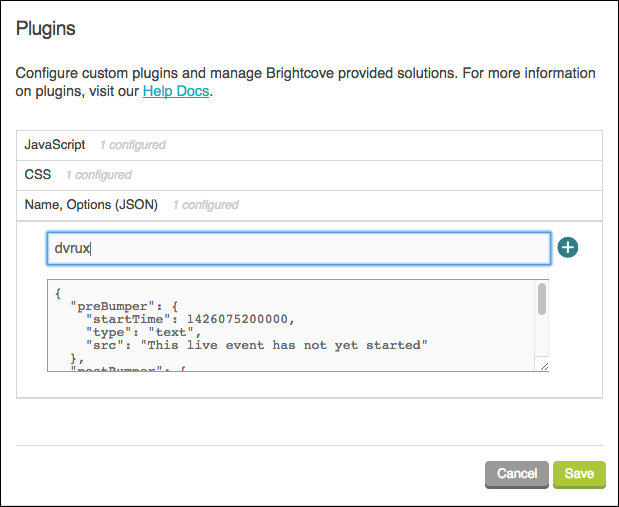
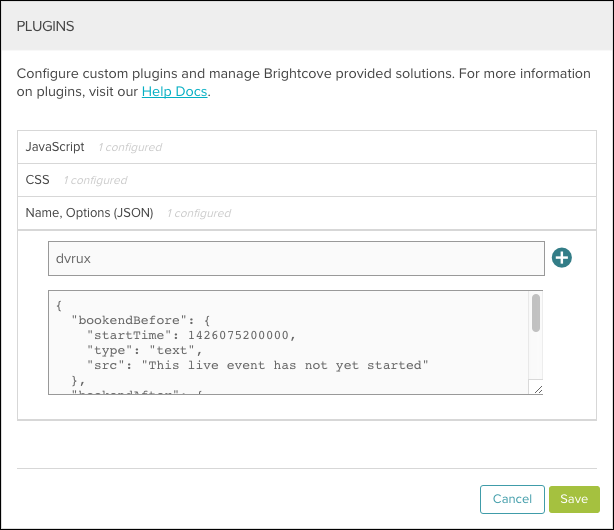
Update to DVRUX doc

diff --git a/en/perform/brightcove-player/guides/dvrux-plugin.html b/en/perform/brightcove-player/guides/dvrux-plugin.html
@@ -24,7 +24,7 @@
 
 </script>
   <script src="https://cdnjs.cloudflare.com/ajax/libs/foundation/5.5.2/js/vendor/modernizr.js"></script>
-    
+
 <!-- Page styles -->
 <style>
     .table-border {
@@ -34,7 +34,7 @@
         border:solid 1px #D3D3D3;
     }
 </style>
-    
+
 </head>
 
 <body>
@@ -99,26 +99,41 @@
       </ul>
         <p>The name of the plugin is <code>dvrux</code>, and an example set of options is:</p>
         <p><code data-gist-id="009be88eae8ea8ebb329" data-gist-hide-footer="true" data-gist-line="50-61"></code></p>
-        <p>The following shows using the In-Page Embed implementation of the player to associate the Live DVRUX Plugin with a single instance of a player.</p>
-          <ul>
-              <li>Line 13: Uses a <code>link</code> tag to include the plugin's CSS in the <code>head</code> of the HTML page.</li>
-              <li>Line 17: Gives the <code>video</code> tag an <code>id</code> attribute, with some value, in this case <strong>myPlayerID</strong>.</li>
-              <li>Line 26: Uses a <code>script</code> tag to include the plugin's JavaScript in the <code>body</code> of the HTML page.</li>
-              <li>Line 30: Creates a reference to the player.</li>
-              <li>Lines 31-42: Calls the plugin, passing the JSON object as options. If you are not passing any options the function call is simply <code>myPlayer.dvrux()</code>.</li>
-          </ul>
-          <p><code data-gist-id="009be88eae8ea8ebb329" data-gist-hide-footer="true" data-gist-line="13,15, 17-47"></code></p>
+
+        <div class="video-cloud-only">
+          <p>The following shows using the In-Page Embed implementation of the player to associate the Live DVRUX Plugin with a single instance of a player.</p>
+            <ul>
+                <li>Line 13: Uses a <code>link</code> tag to include the plugin's CSS in the <code>head</code> of the HTML page.</li>
+                <li>Line 17: Gives the <code>video</code> tag an <code>id</code> attribute, with some value, in this case <strong>myPlayerID</strong>.</li>
+                <li>Line 26: Uses a <code>script</code> tag to include the plugin's JavaScript in the <code>body</code> of the HTML page.</li>
+                <li>Line 30: Creates a reference to the player.</li>
+                <li>Lines 31-42: Calls the plugin, passing the JSON object as options. If you are not passing any options the function call is simply <code>myPlayer.dvrux()</code>.</li>
+            </ul>
+            <p><code data-gist-id="009be88eae8ea8ebb329" data-gist-hide-footer="true" data-gist-line="13,15, 17-47"></code></p>
+        </div>
+
+        <div class="perform-only">
+          <p>The following shows using the In-Page Embed implementation of the player to associate the Live DVRUX Plugin with a single instance of a player.</p>
+            <ul>
+                <li>Line 79: Uses a <code>link</code> tag to include the plugin's CSS in the <code>head</code> of the HTML page.</li>
+                <li>Line 83: Gives the <code>video</code> tag an <code>id</code> attribute, with some value, in this case <strong>myPlayerID</strong>.</li>
+                <li>Line 91: Uses a <code>script</code> tag to include the plugin's JavaScript in the <code>body</code> of the HTML page.</li>
+                <li>Line 95: Creates a reference to the player.</li>
+                <li>Lines 96-107: Calls the plugin, passing the JSON object as options. If you are not passing any options the function call is simply <code>myPlayer.dvrux()</code>.</li>
+            </ul>
+            <p><code data-gist-id="009be88eae8ea8ebb329" data-gist-hide-footer="true" data-gist-line="79,83-112"></code></p>
+        </div>
 
       </div>
       <div id="properties" class="section">
         <h2>Properties</h2>
         <p>The following plugin properties are used to control the Live DVRUX plugin:</p>
     <ul>
-      <li><strong>bookendBefore</strong>: 
+      <li><strong>bookendBefore</strong>:
         <ul>
           <li>Type: <code>object</code></li>
           <li>Creates an overlay to be shown after Brightcove Player has been loaded but before the live event has started.<br/><br/>Contains the following three child properties:
-          <table class="table-border"> 
+          <table class="table-border">
             <tr>
               <th>Name</th>
               <th>Type</th>
@@ -127,7 +142,7 @@
             <tr>
               <td>startTime</td>
               <td>number</td>
-              <td>The time the live event is scheduled to start, using epoch time in milliseconds</td>
+              <td>The time the live event is scheduled to start, using epoch time in milliseconds; when this time is crossed for a bookendBefore, the bookend will clear and start playback as soon as the playlist is updated with a new segment</td>
             </tr>
             <tr>
               <td>type</td>
@@ -147,7 +162,7 @@
           </table></li>
         </ul>
       </li>
-      <li><strong>bookendAfterr</strong>: 
+      <li><strong>bookendAfterr</strong>:
         <ul>
           <li>Type: <code>object</code></li>
           <li>Creates an overlay to be shown after the live event has completed and Brightcove Player is still open<br/><br/>
@@ -161,7 +176,7 @@
             <tr>
               <td>startTime</td>
               <td>number</td>
-              <td>The time the live event is scheduled to complete, using epoch time in milliseconds</td>
+              <td>The time the live event is scheduled to complete, using epoch time in milliseconds; when the time is crossed for a bookendAfter, playback will immediately end and the bookend will be shown.</td>
             </tr>
             <tr>
               <td>type</td>
@@ -190,14 +205,8 @@
           <li>This plugin will not work on Windows Phone 8 or earlier, which does not support HLS or Flash.</li>
           <li>The native player takes over in iOS for iPhone, so this stylistic plugin has no effect on iPhone playback.</li>
           <li>iPads are supported in full screen mode using the native controls.</li>
-          <li>Devices which have a native implementation of HLS (mobile, Safari on desktop) do not provide enough information about the media playlist to be supported.</li>          
+          <li>Devices which have a native implementation of HLS (mobile, Safari on desktop) do not provide enough information about the media playlist to be supported.</li>
         </ul>
-      </div>
-      <div id="knownissues" class="section">
-        <h2>Known issues</h2>
-          <ul>
-            <li>Very short sliding window playlists look particularly "jumpy" on the progress bar.</li>
-          </ul>
       </div>
       <div class="section" id="BCLreferences">
         <h2>Related Topics</h2>

diff --git a/en/video-cloud/brightcove-player/guides/dvrux-plugin.html b/en/video-cloud/brightcove-player/guides/dvrux-plugin.html
@@ -24,7 +24,7 @@
 
 </script>
   <script src="https://cdnjs.cloudflare.com/ajax/libs/foundation/5.5.2/js/vendor/modernizr.js"></script>
-    
+
 <!-- Page styles -->
 <style>
     .table-border {
@@ -34,7 +34,7 @@
         border:solid 1px #D3D3D3;
     }
 </style>
-    
+
 </head>
 
 <body>
@@ -99,26 +99,41 @@
       </ul>
         <p>The name of the plugin is <code>dvrux</code>, and an example set of options is:</p>
         <p><code data-gist-id="009be88eae8ea8ebb329" data-gist-hide-footer="true" data-gist-line="50-61"></code></p>
-        <p>The following shows using the In-Page Embed implementation of the player to associate the Live DVRUX Plugin with a single instance of a player.</p>
-          <ul>
-              <li>Line 13: Uses a <code>link</code> tag to include the plugin's CSS in the <code>head</code> of the HTML page.</li>
-              <li>Line 17: Gives the <code>video</code> tag an <code>id</code> attribute, with some value, in this case <strong>myPlayerID</strong>.</li>
-              <li>Line 26: Uses a <code>script</code> tag to include the plugin's JavaScript in the <code>body</code> of the HTML page.</li>
-              <li>Line 30: Creates a reference to the player.</li>
-              <li>Lines 31-42: Calls the plugin, passing the JSON object as options. If you are not passing any options the function call is simply <code>myPlayer.dvrux()</code>.</li>
-          </ul>
-          <p><code data-gist-id="009be88eae8ea8ebb329" data-gist-hide-footer="true" data-gist-line="13,15, 17-47"></code></p>
+
+        <div class="video-cloud-only">
+          <p>The following shows using the In-Page Embed implementation of the player to associate the Live DVRUX Plugin with a single instance of a player.</p>
+            <ul>
+                <li>Line 13: Uses a <code>link</code> tag to include the plugin's CSS in the <code>head</code> of the HTML page.</li>
+                <li>Line 17: Gives the <code>video</code> tag an <code>id</code> attribute, with some value, in this case <strong>myPlayerID</strong>.</li>
+                <li>Line 26: Uses a <code>script</code> tag to include the plugin's JavaScript in the <code>body</code> of the HTML page.</li>
+                <li>Line 30: Creates a reference to the player.</li>
+                <li>Lines 31-42: Calls the plugin, passing the JSON object as options. If you are not passing any options the function call is simply <code>myPlayer.dvrux()</code>.</li>
+            </ul>
+            <p><code data-gist-id="009be88eae8ea8ebb329" data-gist-hide-footer="true" data-gist-line="13,15, 17-47"></code></p>
+        </div>
+
+        <div class="perform-only">
+          <p>The following shows using the In-Page Embed implementation of the player to associate the Live DVRUX Plugin with a single instance of a player.</p>
+            <ul>
+                <li>Line 79: Uses a <code>link</code> tag to include the plugin's CSS in the <code>head</code> of the HTML page.</li>
+                <li>Line 83: Gives the <code>video</code> tag an <code>id</code> attribute, with some value, in this case <strong>myPlayerID</strong>.</li>
+                <li>Line 91: Uses a <code>script</code> tag to include the plugin's JavaScript in the <code>body</code> of the HTML page.</li>
+                <li>Line 95: Creates a reference to the player.</li>
+                <li>Lines 96-107: Calls the plugin, passing the JSON object as options. If you are not passing any options the function call is simply <code>myPlayer.dvrux()</code>.</li>
+            </ul>
+            <p><code data-gist-id="009be88eae8ea8ebb329" data-gist-hide-footer="true" data-gist-line="79,83-112"></code></p>
+        </div>
 
       </div>
       <div id="properties" class="section">
         <h2>Properties</h2>
         <p>The following plugin properties are used to control the Live DVRUX plugin:</p>
     <ul>
-      <li><strong>bookendBefore</strong>: 
+      <li><strong>bookendBefore</strong>:
         <ul>
           <li>Type: <code>object</code></li>
           <li>Creates an overlay to be shown after Brightcove Player has been loaded but before the live event has started.<br/><br/>Contains the following three child properties:
-          <table class="table-border"> 
+          <table class="table-border">
             <tr>
               <th>Name</th>
               <th>Type</th>
@@ -127,7 +142,7 @@
             <tr>
               <td>startTime</td>
               <td>number</td>
-              <td>The time the live event is scheduled to start, using epoch time in milliseconds</td>
+              <td>The time the live event is scheduled to start, using epoch time in milliseconds; when this time is crossed for a bookendBefore, the bookend will clear and start playback as soon as the playlist is updated with a new segment</td>
             </tr>
             <tr>
               <td>type</td>
@@ -147,7 +162,7 @@
           </table></li>
         </ul>
       </li>
-      <li><strong>bookendAfterr</strong>: 
+      <li><strong>bookendAfterr</strong>:
         <ul>
           <li>Type: <code>object</code></li>
           <li>Creates an overlay to be shown after the live event has completed and Brightcove Player is still open<br/><br/>
@@ -161,7 +176,7 @@
             <tr>
               <td>startTime</td>
               <td>number</td>
-              <td>The time the live event is scheduled to complete, using epoch time in milliseconds</td>
+              <td>The time the live event is scheduled to complete, using epoch time in milliseconds; when the time is crossed for a bookendAfter, playback will immediately end and the bookend will be shown.</td>
             </tr>
             <tr>
               <td>type</td>
@@ -190,14 +205,8 @@
           <li>This plugin will not work on Windows Phone 8 or earlier, which does not support HLS or Flash.</li>
           <li>The native player takes over in iOS for iPhone, so this stylistic plugin has no effect on iPhone playback.</li>
           <li>iPads are supported in full screen mode using the native controls.</li>
-          <li>Devices which have a native implementation of HLS (mobile, Safari on desktop) do not provide enough information about the media playlist to be supported.</li>          
+          <li>Devices which have a native implementation of HLS (mobile, Safari on desktop) do not provide enough information about the media playlist to be supported.</li>
         </ul>
-      </div>
-      <div id="knownissues" class="section">
-        <h2>Known issues</h2>
-          <ul>
-            <li>Very short sliding window playlists look particularly "jumpy" on the progress bar.</li>
-          </ul>
       </div>
       <div class="section" id="BCLreferences">
         <h2>Related Topics</h2>

diff --git a/en/perform/brightcove-player/guides/adding-captions-to-videos.html b/en/perform/brightcove-player/guides/adding-captions-to-videos.html
@@ -109,9 +109,9 @@ a web-based application
     data-embed="default"
     class="video-js" controls&gt;
   &lt;/video&gt;
-  &lt;script src="//players.brightcove.net/20318290001/d508c6e1-efa7-4aad-ba91-1a8db9761b8c_default/index.min.js"&gt;&lt;/script&gt;           
+  &lt;script src="//players.brightcove.net/20318290001/d508c6e1-efa7-4aad-ba91-1a8db9761b8c_default/index.min.js"&gt;&lt;/script&gt;
 </pre></li>
-        
+
         <li>Add <code>&lt;track&gt;</code> tag(s) inside of the <code>&lt;video&gt;</code> tag that point to location of all caption files.  Note that publishers are responsible for hosting caption files. <span class="video-cloud-only">Video Cloud</span><span class="perform-only">Perform</span> Studio does not currently provide a way for publishers to upload WebVTT caption files. This is planned for a future release. In the example below, English, Japanese and French caption files have been specified. For a complete list of language codes, see the <a href="http://www.w3schools.com/tags/ref_language_codes.asp">HTML Language Code Reference</a>.<br/>
         <pre class="video-cloud-only">
   &lt;video
@@ -140,10 +140,12 @@ a web-based application
         </pre>
         <p class="BCL-aside">Note: You may need to add the <code>&lt;crossorigin&gt;</code> attribute and set it to <code>anonymous</code> for captions to appear on iOS devices.</p>
         </li>
-        <li><strong>(Optional)</strong> To have captions automatically display when the video starts playing, add the <code>default</code> attribute to the <code>&lt;track&gt;</code> tag for the language to display.  Note that the <code>default</code> attribute should only appear on one <code>&lt;track&gt;</code> tag. For example, to have the English captions display when the video starts playing, the <code>&lt;track&gt;</code> tag would be modified as follows:<br/>
+        <li><strong>(Optional)</strong> To have captions automatically display when the video starts playing, add the <code>default</code> attribute to the <code>&lt;track&gt;</code> tag for the language to display and set .  Note that the <code>default</code> attribute should only appear on one <code>&lt;track&gt;</code> tag. For example, to have the English captions display when the video starts playing, the <code>&lt;track&gt;</code> tag would be modified as follows:<br/>
         <pre>  &lt;track kind="captions" src="http://solutions.brightcove.com/intro.vtt" srclang="en" label="English" <strong>default</strong>&gt;
   &lt;track kind="captions" src="http://solutions.brightcove.com/intro-jp.vtt" srclang="ja" label="Japanese"&gt;
   &lt;track kind="captions" src="http://solutions.brightcove.com/intro-fr.vtt" srclang="fr" label="French"&gt;</pre>
+        <p>The code needed to start the designated captions automatically is:</p>
+        <pre>myPlayer.textTracks().tracks_[1].mode = "showing";</pre>
         </li>
         <li>Publish the page with the player. When a player with associated captions is published, a <strong>CC</strong> button will appear on the player chrome.<br/>
        	  <img alt="" src="//img.brightcove.com/cc-button.png" /></li>
@@ -179,7 +181,7 @@ to login to and navigate around<strong>&lt;/c&gt;</strong>
 
 3
 00:00:06.510 --> 00:00:09.550 align:middle line:84%
-<strong>&lt;c.captionstyle&gt;</strong>inside of <span class="video-cloud-only">Video Cloud</span> Studio.<strong>&lt;/c&gt;</strong> 
+<strong>&lt;c.captionstyle&gt;</strong>inside of <span class="video-cloud-only">Video Cloud</span> Studio.<strong>&lt;/c&gt;</strong>
       </pre>
       <p>For more information on styling options for caption files, see the <a href="http://dev.w3.org/html5/webvtt/#css-extensions">W3C WebVTT specification document</a> or see <a href="http://html5doctor.com/video-subtitling-and-webvtt/#styling">Video Subtitling and WebVTT</a>.</p>
       <h3 id="user">User styling of captions</h3>
@@ -218,8 +220,8 @@ to login to and navigate around<strong>&lt;/c&gt;</strong>
         </ul>
         <p>The function call returns an object of type <code>vjs.TextTrack</code>.</p>
         <p>Example usage:</p>
-        <p><code data-gist-id="93425dc1cd542909531c" data-gist-hide-footer="true" data-gist-line="38-43"></code></p>  
-        <p>You must wait for the <code>loadstart</code> event to be dispatched before you use the <code>addRemoteTextTrack()</code> method. The following example shows the script block for adding English and French captions to a video.</p>      
+        <p><code data-gist-id="93425dc1cd542909531c" data-gist-hide-footer="true" data-gist-line="38-43"></code></p>
+        <p>You must wait for the <code>loadstart</code> event to be dispatched before you use the <code>addRemoteTextTrack()</code> method. The following example shows the script block for adding English and French captions to a video.</p>
         <p><code data-gist-id="93425dc1cd542909531c" data-gist-hide-footer="true" data-gist-line="25-47" data-gist-highlight-line="29,45"></code></p>
         <p>The complementary method <code>textTracks()</code> enables you to retrieve all text tracks assigned to a player. The method returns a object of type <code>vjs.TextTrackList</code>.</p>
       </div>

diff --git a/en/video-cloud/brightcove-player/guides/adding-captions-to-videos.html b/en/video-cloud/brightcove-player/guides/adding-captions-to-videos.html
@@ -109,9 +109,9 @@ a web-based application
     data-embed="default"
     class="video-js" controls&gt;
   &lt;/video&gt;
-  &lt;script src="//players.brightcove.net/20318290001/d508c6e1-efa7-4aad-ba91-1a8db9761b8c_default/index.min.js"&gt;&lt;/script&gt;           
+  &lt;script src="//players.brightcove.net/20318290001/d508c6e1-efa7-4aad-ba91-1a8db9761b8c_default/index.min.js"&gt;&lt;/script&gt;
 </pre></li>
-        
+
         <li>Add <code>&lt;track&gt;</code> tag(s) inside of the <code>&lt;video&gt;</code> tag that point to location of all caption files.  Note that publishers are responsible for hosting caption files. <span class="video-cloud-only">Video Cloud</span><span class="perform-only">Perform</span> Studio does not currently provide a way for publishers to upload WebVTT caption files. This is planned for a future release. In the example below, English, Japanese and French caption files have been specified. For a complete list of language codes, see the <a href="http://www.w3schools.com/tags/ref_language_codes.asp">HTML Language Code Reference</a>.<br/>
         <pre class="video-cloud-only">
   &lt;video
@@ -140,10 +140,12 @@ a web-based application
         </pre>
         <p class="BCL-aside">Note: You may need to add the <code>&lt;crossorigin&gt;</code> attribute and set it to <code>anonymous</code> for captions to appear on iOS devices.</p>
         </li>
-        <li><strong>(Optional)</strong> To have captions automatically display when the video starts playing, add the <code>default</code> attribute to the <code>&lt;track&gt;</code> tag for the language to display.  Note that the <code>default</code> attribute should only appear on one <code>&lt;track&gt;</code> tag. For example, to have the English captions display when the video starts playing, the <code>&lt;track&gt;</code> tag would be modified as follows:<br/>
+        <li><strong>(Optional)</strong> To have captions automatically display when the video starts playing, add the <code>default</code> attribute to the <code>&lt;track&gt;</code> tag for the language to display and set .  Note that the <code>default</code> attribute should only appear on one <code>&lt;track&gt;</code> tag. For example, to have the English captions display when the video starts playing, the <code>&lt;track&gt;</code> tag would be modified as follows:<br/>
         <pre>  &lt;track kind="captions" src="http://solutions.brightcove.com/intro.vtt" srclang="en" label="English" <strong>default</strong>&gt;
   &lt;track kind="captions" src="http://solutions.brightcove.com/intro-jp.vtt" srclang="ja" label="Japanese"&gt;
   &lt;track kind="captions" src="http://solutions.brightcove.com/intro-fr.vtt" srclang="fr" label="French"&gt;</pre>
+        <p>The code needed to start the designated captions automatically is:</p>
+        <pre>myPlayer.textTracks().tracks_[1].mode = "showing";</pre>
         </li>
         <li>Publish the page with the player. When a player with associated captions is published, a <strong>CC</strong> button will appear on the player chrome.<br/>
        	  <img alt="" src="//img.brightcove.com/cc-button.png" /></li>
@@ -179,7 +181,7 @@ to login to and navigate around<strong>&lt;/c&gt;</strong>
 
 3
 00:00:06.510 --> 00:00:09.550 align:middle line:84%
-<strong>&lt;c.captionstyle&gt;</strong>inside of <span class="video-cloud-only">Video Cloud</span> Studio.<strong>&lt;/c&gt;</strong> 
+<strong>&lt;c.captionstyle&gt;</strong>inside of <span class="video-cloud-only">Video Cloud</span> Studio.<strong>&lt;/c&gt;</strong>
       </pre>
       <p>For more information on styling options for caption files, see the <a href="http://dev.w3.org/html5/webvtt/#css-extensions">W3C WebVTT specification document</a> or see <a href="http://html5doctor.com/video-subtitling-and-webvtt/#styling">Video Subtitling and WebVTT</a>.</p>
       <h3 id="user">User styling of captions</h3>
@@ -218,8 +220,8 @@ to login to and navigate around<strong>&lt;/c&gt;</strong>
         </ul>
         <p>The function call returns an object of type <code>vjs.TextTrack</code>.</p>
         <p>Example usage:</p>
-        <p><code data-gist-id="93425dc1cd542909531c" data-gist-hide-footer="true" data-gist-line="38-43"></code></p>  
-        <p>You must wait for the <code>loadstart</code> event to be dispatched before you use the <code>addRemoteTextTrack()</code> method. The following example shows the script block for adding English and French captions to a video.</p>      
+        <p><code data-gist-id="93425dc1cd542909531c" data-gist-hide-footer="true" data-gist-line="38-43"></code></p>
+        <p>You must wait for the <code>loadstart</code> event to be dispatched before you use the <code>addRemoteTextTrack()</code> method. The following example shows the script block for adding English and French captions to a video.</p>
         <p><code data-gist-id="93425dc1cd542909531c" data-gist-hide-footer="true" data-gist-line="25-47" data-gist-highlight-line="29,45"></code></p>
         <p>The complementary method <code>textTracks()</code> enables you to retrieve all text tracks assigned to a player. The method returns a object of type <code>vjs.TextTrackList</code>.</p>
       </div>
